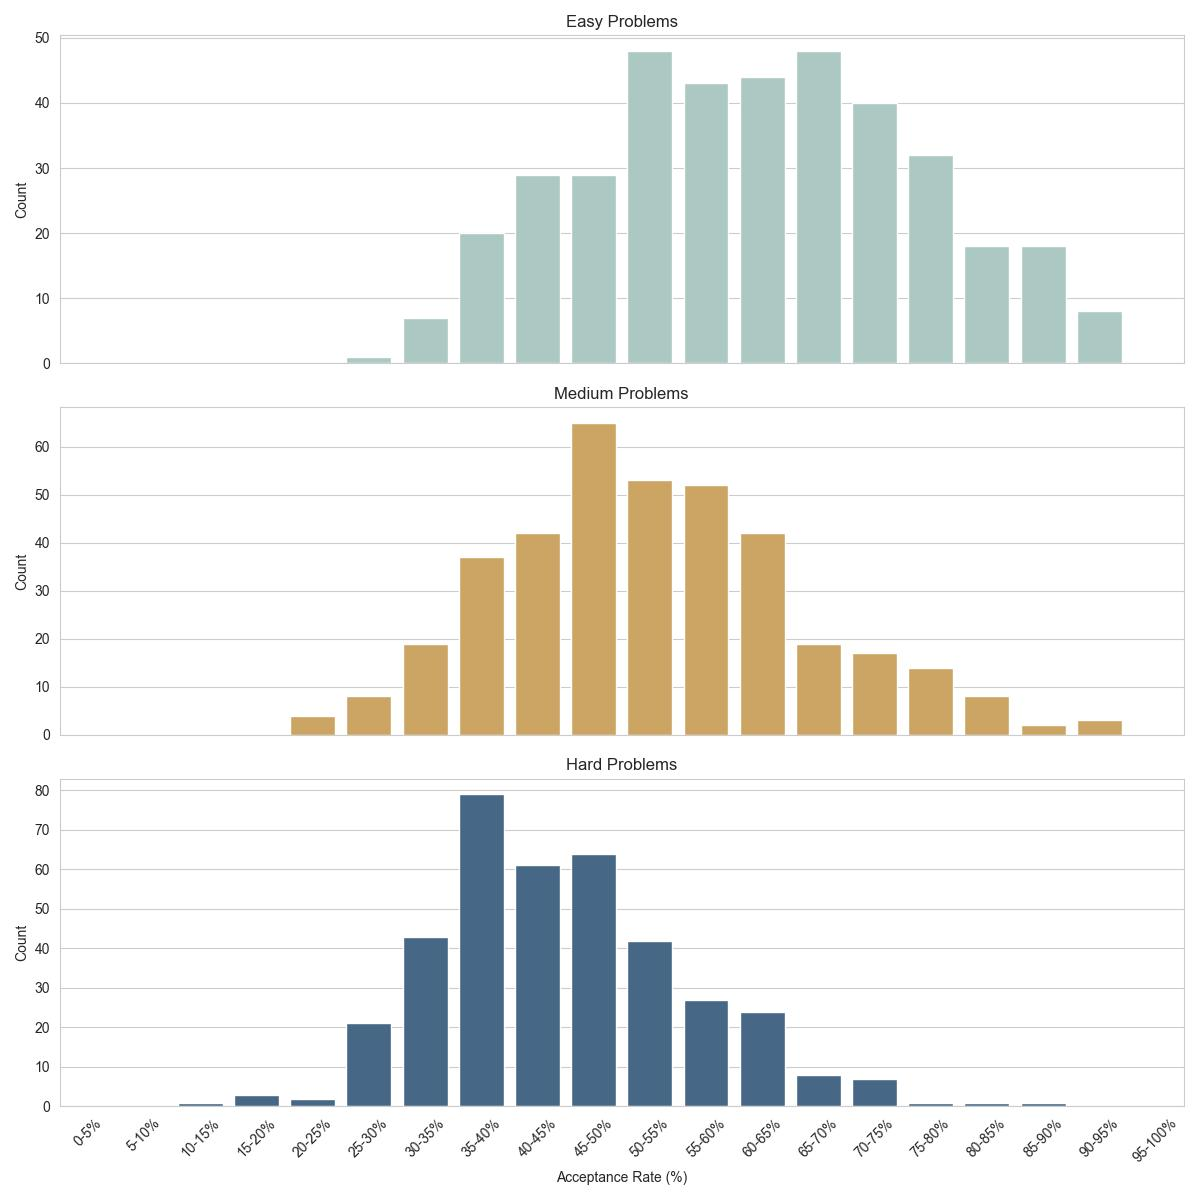
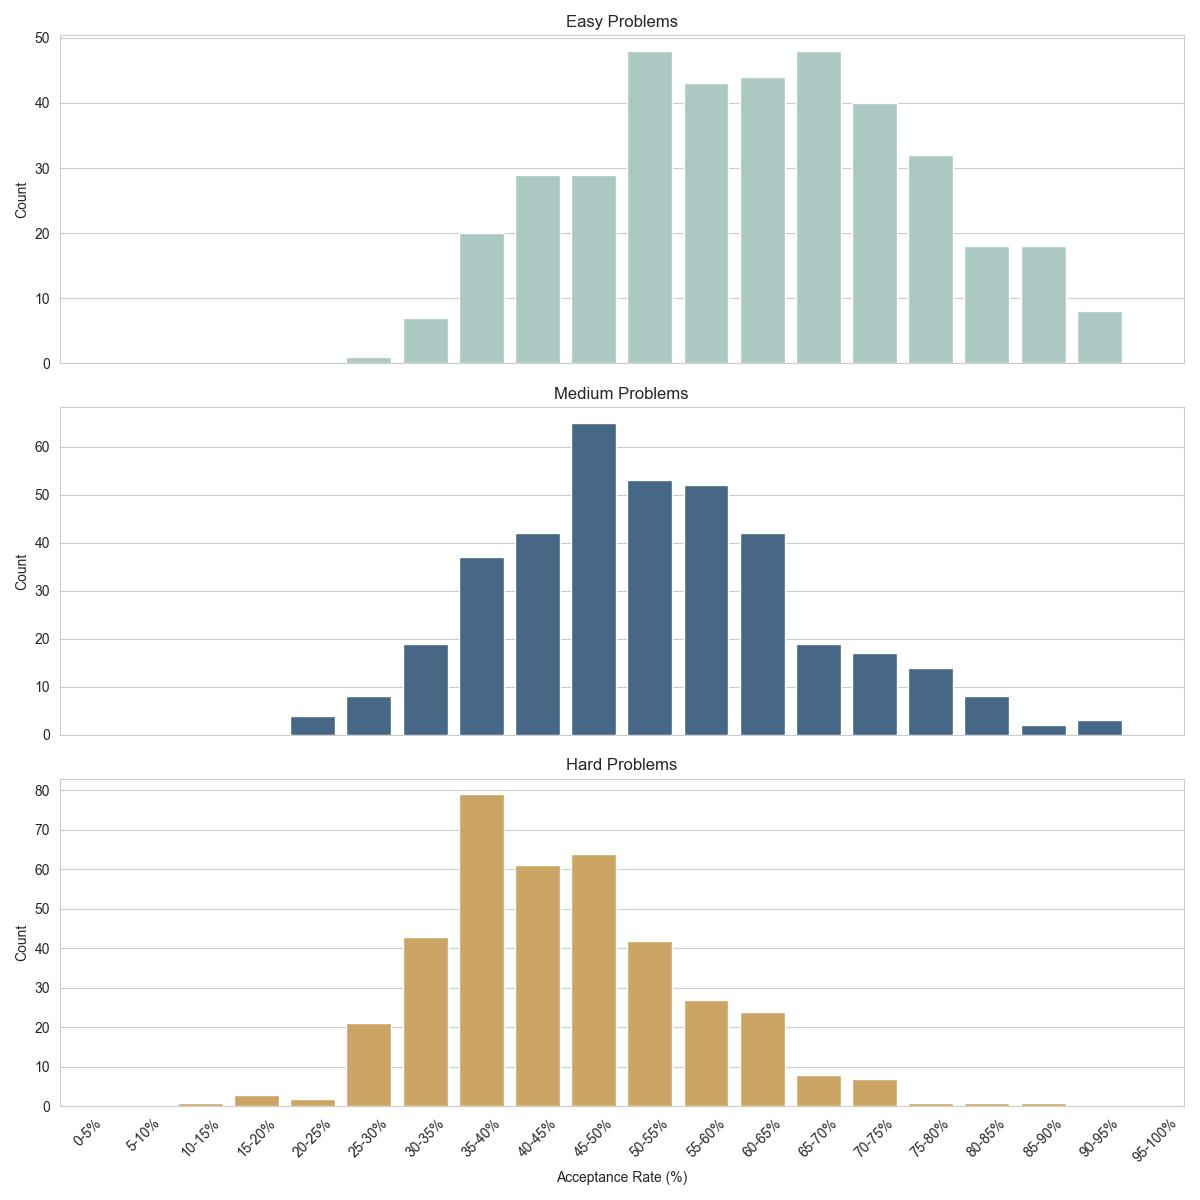
fixed the graphs

Changed region(s): [[0.2467, 0.3392, 0.9558, 0.6167], [0.185, 0.6475, 0.7708, 0.925]]

diff --git a/visualization.py b/visualization.py
@@ -43,8 +43,25 @@ labels = [f"{i}-{i+5}%" for i in bins[:-1]]
 df["acceptance_rate_bin"] = pd.cut(df["acceptance_rate"], bins=bins, labels=labels, right=False)
 
 # Plot the histogram (count plot) of difficulty grouped by acceptance rate bins
+difficulty_color_map = {
+    'Easy': '#A6CDC6',
+    'Medium': '#3B6790',
+    'Hard': '#DDA853'
+}
+
+# Create a list of colors in the same order as the hue categories appear
+# If you want to be safe regardless of sorting:
+difficulty_order = df['difficulty'].dropna().unique()  # or ['Easy', 'Medium', 'Hard'] if you want fixed order
+palette = [difficulty_color_map[d] for d in difficulty_order]
+
+# Plot
 plt.figure(figsize=(12, 6))
-sns.countplot(data=df, x="acceptance_rate_bin", hue="difficulty", palette=["#A6CDC6", "#DDA853", "#3B6790"])
+sns.countplot(
+    data=df,
+    x="acceptance_rate_bin",
+    hue="difficulty",
+    palette=difficulty_color_map  # seaborn will automatically map by label
+)
 
 # Labels and title
 plt.xlabel("Acceptance Rate (%)")
@@ -70,17 +87,24 @@ labels = [f"{i}-{i+5}%" for i in bins[:-1]]
 df["acceptance_rate_bin"] = pd.cut(df["acceptance_rate"], bins=bins, labels=labels, right=False)
 
 # Define difficulty levels and colors
-difficulty_levels = ["Easy", "Medium", "Hard"]
-colors = ["#A6CDC6", "#DDA853", "#3B6790"]
+difficulty_color_map = {
+    'Easy': '#A6CDC6',
+    'Medium': '#3B6790',
+    'Hard': '#DDA853'
+}
 
-# Create separate histograms for each difficulty level
+# Ensure consistent order
+difficulty_levels = ["Easy", "Medium", "Hard"]
+
+# Create subplots
 fig, axes = plt.subplots(3, 1, figsize=(12, 12), sharex=True)
 
+# Plot each difficulty level with its corresponding color
 for i, difficulty in enumerate(difficulty_levels):
     sns.countplot(
         data=df[df["difficulty"] == difficulty],
         x="acceptance_rate_bin",
-        color=colors[i],
+        color=difficulty_color_map[difficulty],
         ax=axes[i]
     )
     axes[i].set_title(f"{difficulty} Problems")
@@ -88,7 +112,7 @@ for i, difficulty in enumerate(difficulty_levels):
     axes[i].set_xlabel("")
     axes[i].tick_params(axis="x", rotation=45)
 
-# Set common x-axis label
+# Common x-axis label
 axes[-1].set_xlabel("Acceptance Rate (%)")
 
 # Adjust layout and show plot
@@ -106,9 +130,25 @@ labels = [f"{i}-{i+50}" for i in bins[:-1]]
 # Add a new column for acceptance rate bins
 df["discuss_count_bin"] = pd.cut(df["discuss_count"], bins=bins, labels=labels, right=False)
 
-# Plot the histogram (count plot) of difficulty grouped by acceptance rate bins
+difficulty_color_map = {
+    'Easy': '#A6CDC6',
+    'Medium': '#3B6790',
+    'Hard': '#DDA853'
+}
+
+# Create a list of colors in the same order as the hue categories appear
+# If you want to be safe regardless of sorting:
+difficulty_order = df['difficulty'].dropna().unique()  # or ['Easy', 'Medium', 'Hard'] if you want fixed order
+palette = [difficulty_color_map[d] for d in difficulty_order]
+
+# Plot
 plt.figure(figsize=(12, 6))
-sns.countplot(data=df, x="discuss_count_bin", hue="difficulty", palette=["#A6CDC6", "#DDA853", "#3B6790"])
+sns.countplot(
+    data=df,
+    x="discuss_count_bin",
+    hue="difficulty",
+    palette=difficulty_color_map  # seaborn will automatically map by label
+)
 
 # Labels and title
 plt.xlabel("Discuss Count")
@@ -135,17 +175,23 @@ labels = [f"{i}-{i+50}" for i in bins[:-1]]
 df["discuss_count_bin"] = pd.cut(df["discuss_count"], bins=bins, labels=labels, right=False)
 
 # Define difficulty levels and colors
-difficulty_levels = ["Easy", "Medium", "Hard"]
-colors = ["#A6CDC6", "#DDA853", "#3B6790"]
+difficulty_color_map = {
+    'Easy': '#A6CDC6',
+    'Medium': '#3B6790',
+    'Hard': '#DDA853'
+}
 
-# Create separate histograms for each difficulty level
+# Ensure consistent order
+difficulty_levels = ["Easy", "Medium", "Hard"]
+
+# Create subplots
 fig, axes = plt.subplots(3, 1, figsize=(12, 12), sharex=True)
 
 for i, difficulty in enumerate(difficulty_levels):
     sns.countplot(
         data=df[df["difficulty"] == difficulty],
         x="discuss_count_bin",
-        color=colors[i],
+        color=difficulty_color_map[difficulty],
         ax=axes[i]
     )
     axes[i].set_title(f"{difficulty} Problems")
@@ -217,8 +263,24 @@ df = df[df["companies"].isin(top_companies)]
 company_difficulty_counts = df.groupby(["companies", "difficulty"]).size().unstack(fill_value=0)
 
 # Plot the histogram as a stacked bar chart
-palette = ["#A6CDC6", "#3B6790", "#DDA853"]
-company_difficulty_counts.plot(kind="bar", color=palette, figsize=(12, 6))
+difficulty_color_map = {
+    'Easy': '#A6CDC6',
+    'Medium': '#3B6790',
+    'Hard': '#DDA853'
+}
+
+# Reorder columns to match desired difficulty order (optional but recommended)
+difficulty_levels = ["Easy", "Medium", "Hard"]
+company_difficulty_counts = company_difficulty_counts[difficulty_levels]
+
+# Plot as stacked bar chart using named color map
+company_difficulty_counts.plot(
+    kind="bar",
+    color=[difficulty_color_map[d] for d in company_difficulty_counts.columns],
+    figsize=(12, 6),
+    width=0.8,
+    stacked=False
+)
 
 # Labels and title
 plt.xlabel("Company")
@@ -250,8 +312,24 @@ df = df[df["related_topics"].isin(top_related_topics)]
 related_topics_difficulty_counts = df.groupby(["related_topics", "difficulty"]).size().unstack(fill_value=0)
 
 # Plot the histogram as a stacked bar chart
-palette = ["#A6CDC6", "#3B6790", "#DDA853"]
-related_topics_difficulty_counts.plot(kind="bar", color=palette, figsize=(12, 6), width=0.9)
+difficulty_color_map = {
+    'Easy': '#A6CDC6',
+    'Medium': '#3B6790',
+    'Hard': '#DDA853'
+}
+
+# Ensure consistent column order
+difficulty_levels = ["Easy", "Medium", "Hard"]
+related_topics_difficulty_counts = related_topics_difficulty_counts[difficulty_levels]
+
+# Plot side-by-side bars (NOT stacked)
+related_topics_difficulty_counts.plot(
+    kind="bar",
+    color=[difficulty_color_map[d] for d in related_topics_difficulty_counts.columns],
+    figsize=(14, 6),
+    width=0.8,   # Adjust for spacing
+    stacked=False
+)
 
 # Labels and title
 plt.xlabel("Related Topics")

diff --git a/data_preparation.py b/data_preparation.py
@@ -5,11 +5,48 @@ from sklearn.preprocessing import MultiLabelBinarizer, LabelEncoder
 from sklearn.feature_extraction.text import TfidfVectorizer
 import numpy as np
 import spacy
+import matplotlib.pyplot as plt
+
+
+def balance_graph_distrution(difficulty_counts, name):
+
+    color_map = {
+        'Easy': '#A6CDC6',
+        'Medium': '#3B6790',
+        'Hard': '#DDA853'
+    }
+
+    labels = difficulty_counts.index
+    colors = [color_map[label] for label in labels]
+
+    # Create pie chart with custom colors
+    plt.figure(figsize=(6, 6))
+    wedges, texts, autotexts = plt.pie(
+        difficulty_counts,
+        labels=None,  # Leave labels off the pie slices
+        autopct='%1.1f%%',
+        startangle=140,
+        colors=colors
+    )
+    plt.legend(
+        wedges,
+        [f"{label} ({difficulty_counts[label]})" for label in labels],
+        title="Difficulty Level",
+        loc="center left",
+        bbox_to_anchor=(1, 0.5)
+    )
+    plt.title('Distribution of Problems by Difficulty Level')
+    plt.axis('equal')  # Makes the pie chart a circle
+    plt.tight_layout() 
+    # plt.show()
+    plt.savefig(f"{name}.jpg")
+
 
 def data_balancing(df):
    
     difficulty_counts = df['difficulty'].value_counts()
     print("Original class distribution:\n", difficulty_counts)
+    balance_graph_distrution(difficulty_counts, "plots/original_difficulty_distribution")
 
     # Step 1: Find the minimum count among the classes
     min_count = difficulty_counts.min()
@@ -22,7 +59,9 @@ def data_balancing(df):
     )
     
     # Step 3: Check new distribution
-    print("Balanced class distribution:\n", df_balanced['difficulty'].value_counts())
+    balanced_difficulty_counts = df_balanced['difficulty'].value_counts()
+    print("Balanced class distribution:\n", balanced_difficulty_counts)
+    balance_graph_distrution(balanced_difficulty_counts, "plots/balanced_difficulty_distribution")
     
     # Step 4: Save the balanced DataFrame to a CSV file
     df_balanced.to_csv('data_files/balanced_data.csv', index=False)
